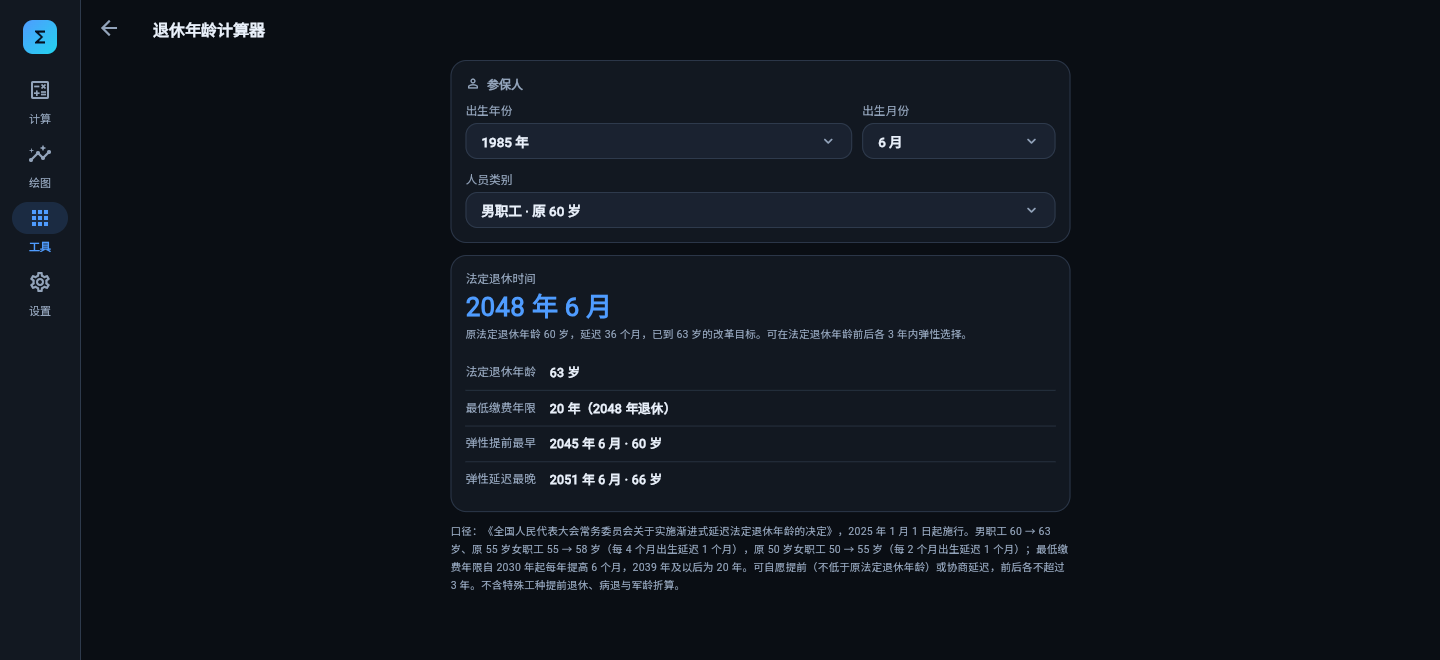
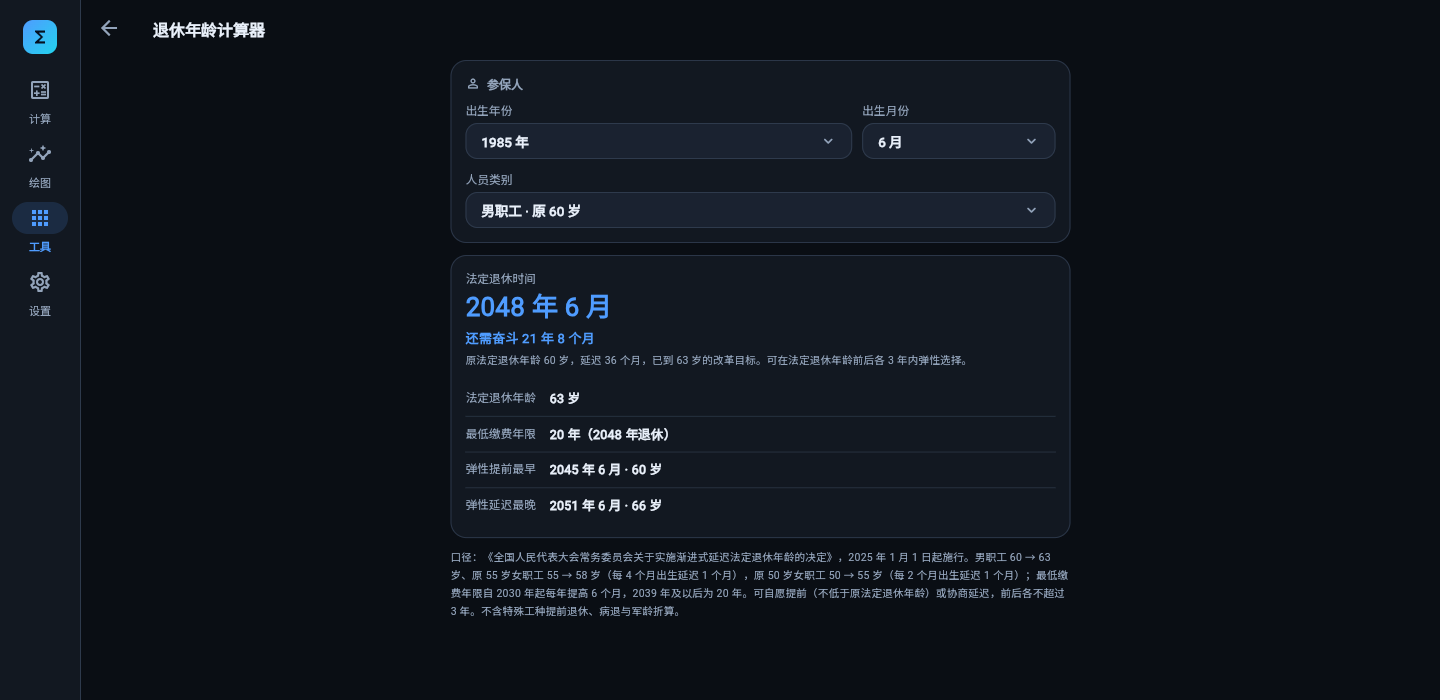
退休年龄计算器新增「还需奋斗 X 年 Y 个月」
- retirement.dart 增加 monthsUntilRetirement(result, now)：按年月比较当前时间
  与退休年月，已到或已过时返回 0，界面不会出现负数
- 页面在退休时间下方用主色加粗显示「还需奋斗 18 年 3 个月」，到点后改为
  「已达到法定退休年龄」；RetirementPage 新增可注入的 now（默认系统时间），
  测试不再依赖运行日期
- 测试：单元用例覆盖 219 / 1 / 0 个月与已过情形；Widget 用例注入 2030-03、
  2025-01 与 2060-01 三个时间点核对文案
- 重出 retirement.png（1440×700），README 与测试计数（194）同步

diff --git a/lib/ui/tools/retirement/retirement_page.dart b/lib/ui/tools/retirement/retirement_page.dart
@@ -7,7 +7,10 @@ import 'retirement.dart';
 
 /// 退休年龄计算器页：选出生年月与人员类别，测算退休时间与退休年龄。
 class RetirementPage extends StatefulWidget {
-  const RetirementPage({super.key});
+  const RetirementPage({super.key, this.now});
+
+  /// 计算「还需奋斗」用的当前时间，默认取系统时间（测试里可注入固定值）。
+  final DateTime? now;
 
   @override
   State<RetirementPage> createState() => _RetirementPageState();
@@ -30,6 +33,9 @@ class _RetirementPageState extends State<RetirementPage> {
   int _birthYear = 1985;
   int _birthMonth = 6;
   RetirementGroup _group = RetirementGroup.male;
+
+  /// 「还需奋斗」的基准时间，测试可注入固定值。
+  late final DateTime _now = widget.now ?? DateTime.now();
 
   RetirementResult get _result => calculateRetirement(
     birth: DateTime(_birthYear, _birthMonth),
@@ -135,6 +141,17 @@ class _RetirementPageState extends State<RetirementPage> {
                           fontFeatures: const [FontFeature.tabularFigures()],
                         ),
                       ),
+                      const SizedBox(height: 6),
+                      Text(
+                        _countdownLabel(result),
+                        key: const Key('retirement-countdown'),
+                        style: TextStyle(
+                          fontSize: 13,
+                          fontWeight: FontWeight.w700,
+                          color: AppColors.primary,
+                          fontFeatures: const [FontFeature.tabularFigures()],
+                        ),
+                      ),
                       const SizedBox(height: 4),
                       Text(
                         _summary(result),
@@ -197,6 +214,22 @@ class _RetirementPageState extends State<RetirementPage> {
         ),
       ),
     );
+  }
+
+  /// 「还需奋斗 X 年 Y 个月」，已到退休年龄时给出提示。
+  String _countdownLabel(RetirementResult result) {
+    final months = monthsUntilRetirement(result, _now);
+    if (months == 0) return '已达到法定退休年龄';
+    return '还需奋斗 ${_spanLabel(months)}';
+  }
+
+  /// 把月数写成「X 年 Y 个月」/「X 年」/「Y 个月」。
+  String _spanLabel(int months) {
+    final years = months ~/ 12;
+    final rest = months % 12;
+    if (years == 0) return '$rest 个月';
+    if (rest == 0) return '$years 年';
+    return '$years 年 $rest 个月';
   }
 
   /// 「较原法定年龄延迟 N 个月」的说明。

diff --git a/test/widget_test.dart b/test/widget_test.dart
@@ -321,6 +321,8 @@ void main() {
     expect(find.text('20 年（2048 年退休）'), findsOneWidget);
     expect(find.text('2045 年 6 月 · 60 岁'), findsOneWidget);
     expect(find.text('2051 年 6 月 · 66 岁'), findsOneWidget);
+    // 按真实当前时间算「还需奋斗」，文案格式固定
+    expect(find.textContaining('还需奋斗'), findsOneWidget);
 
     // 换成原 50 岁的女职工：55 岁退休，时间提前 8 年
     await tester.tap(find.byKey(const Key('retirement-group')));
@@ -341,6 +343,46 @@ void main() {
     await tester.pumpAndSettle();
     expect(find.text('2053 年 6 月'), findsOneWidget);
     expect(find.textContaining('已到 63 岁的改革目标'), findsOneWidget);
+    expect(tester.takeException(), isNull);
+  });
+
+  testWidgets('退休年龄计算器：还需奋斗年数按注入的当前时间算', (tester) async {
+    tester.view.physicalSize = const Size(1200, 1400);
+    tester.view.devicePixelRatio = 1;
+    addTearDown(tester.view.reset);
+
+    await tester.pumpWidget(
+      MaterialApp(
+        theme: AppTheme.dark(),
+        home: RetirementPage(now: DateTime(2030, 3)),
+      ),
+    );
+    await tester.pumpAndSettle();
+    // 默认 1985 年 6 月男职工 2048 年 6 月退休：18 年 3 个月
+    expect(find.text('还需奋斗 18 年 3 个月'), findsOneWidget);
+
+    // 提前到 2025 年 1 月：正好 23 年 5 个月
+    await tester.pumpWidget(
+      MaterialApp(
+        key: UniqueKey(),
+        theme: AppTheme.dark(),
+        home: RetirementPage(now: DateTime(2025, 1)),
+      ),
+    );
+    await tester.pumpAndSettle();
+    expect(find.text('还需奋斗 23 年 5 个月'), findsOneWidget);
+
+    // 过了退休年月：不再倒计时
+    await tester.pumpWidget(
+      MaterialApp(
+        key: UniqueKey(),
+        theme: AppTheme.dark(),
+        home: RetirementPage(now: DateTime(2060, 1)),
+      ),
+    );
+    await tester.pumpAndSettle();
+    expect(find.text('已达到法定退休年龄'), findsOneWidget);
+    expect(find.textContaining('还需奋斗'), findsNothing);
     expect(tester.takeException(), isNull);
   });
 

diff --git a/test/tools_test.dart b/test/tools_test.dart
@@ -1060,6 +1060,13 @@ void main() {
       // 跨月加法：12 月 + 1 个月进位到下一年
       expect(addMonths(DateTime(2052, 12), 1), DateTime(2053, 1));
 
+      // 还需奋斗：从当前年月到退休年月，已到时按 0 处理
+      final target = male(DateTime(1985, 6));
+      expect(monthsUntilRetirement(target, DateTime(2030, 3)), 219);
+      expect(monthsUntilRetirement(target, DateTime(2048, 6)), 0);
+      expect(monthsUntilRetirement(target, DateTime(2049, 1)), 0);
+      expect(monthsUntilRetirement(target, DateTime(2048, 5)), 1);
+
       expect(pensionPayoutMonthsOf(60), 139);
       expect(pensionPayoutMonthsOf(50), 195);
       expect(pensionPayoutMonthsOf(55), 170);

diff --git a/lib/ui/tools/retirement/retirement.dart b/lib/ui/tools/retirement/retirement.dart
@@ -133,6 +133,16 @@ RetirementResult calculateRetirement({
   );
 }
 
+/// 从 [now] 到法定退休还差多少个月（按年月比较）。
+///
+/// 已经到或过了退休年月时返回 0，避免界面上出现负数。
+int monthsUntilRetirement(RetirementResult result, DateTime now) {
+  final diff =
+      (result.retireMonth.year - now.year) * 12 +
+      (result.retireMonth.month - now.month);
+  return diff < 0 ? 0 : diff;
+}
+
 /// 某年退休对应的最低缴费年限（年）：2029 年前 15 年，2030 年起每年加 6 个月，
 /// 2039 年及以后 20 年。
 double minimumContributionYearsAt(int year) {
